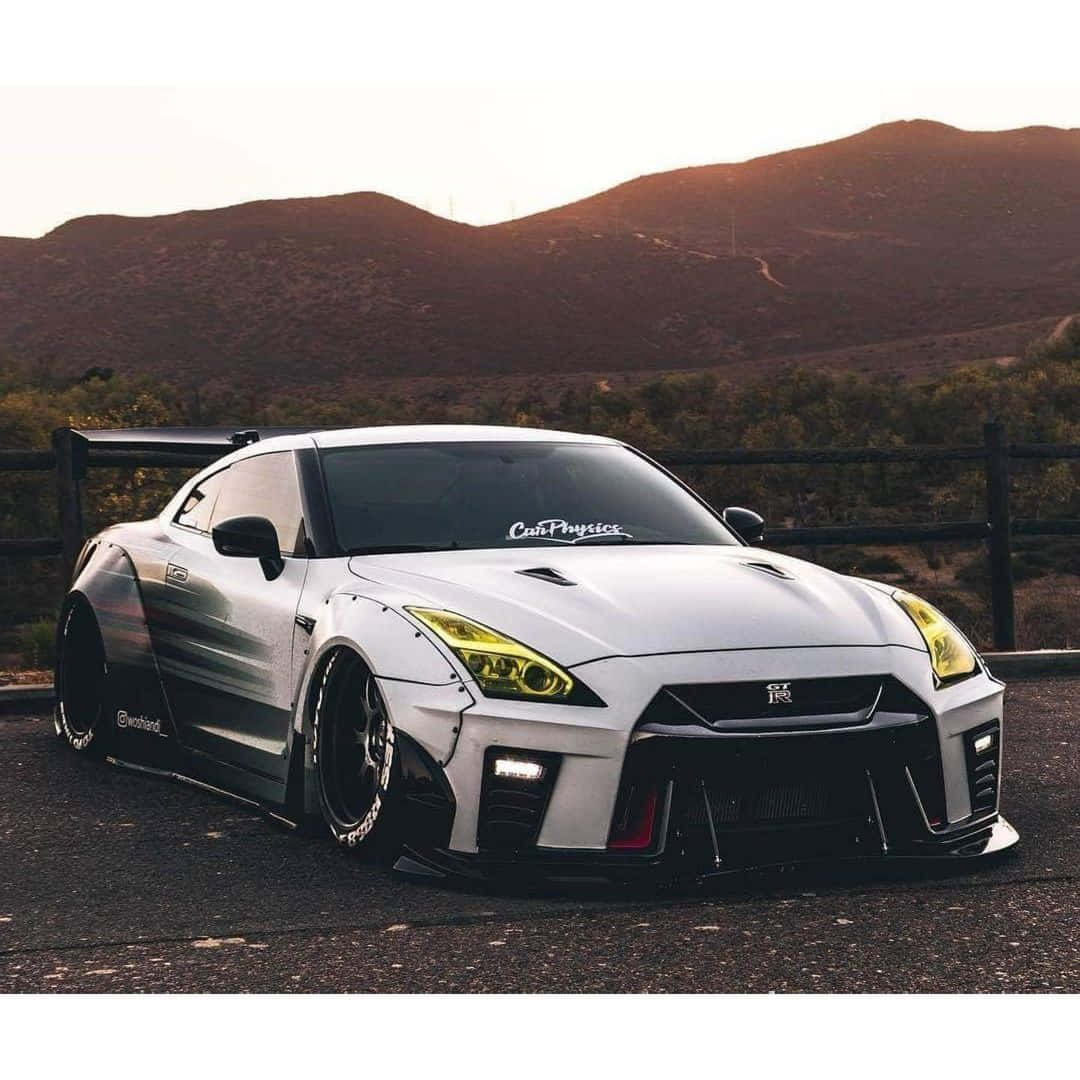
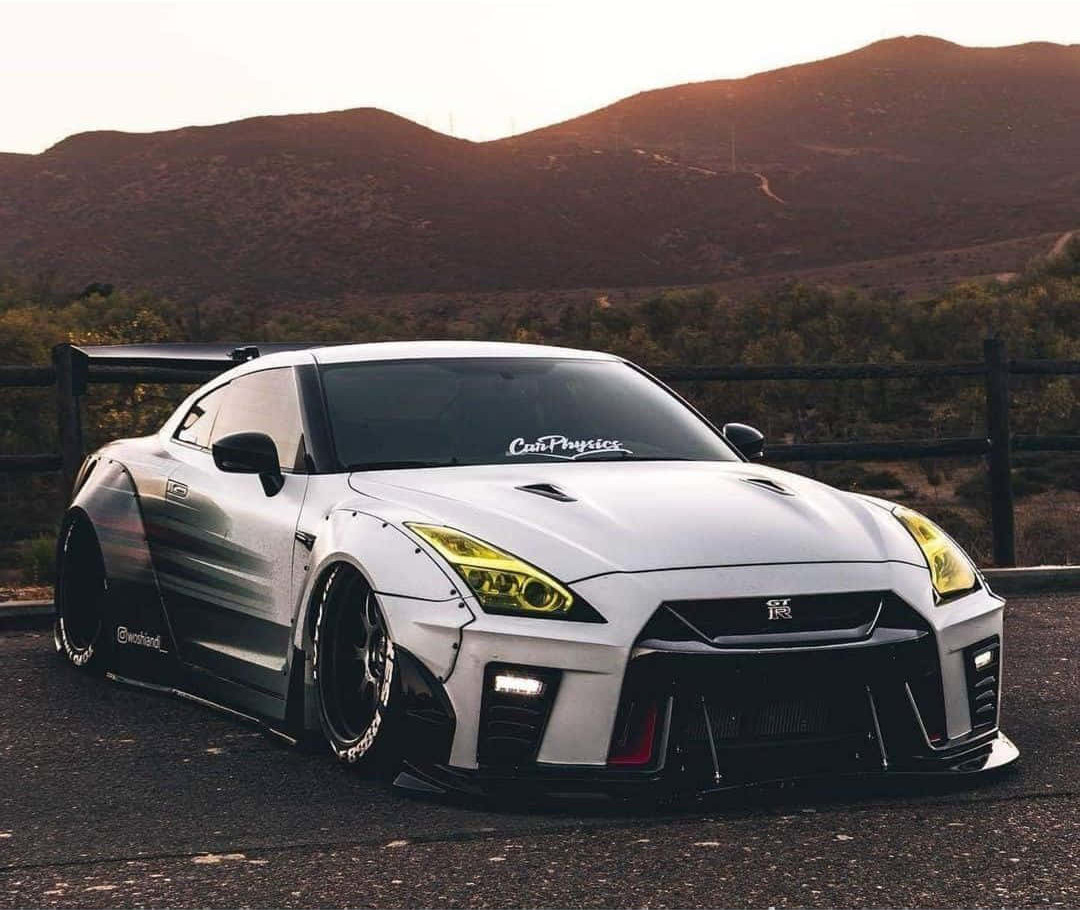
fixed some workdings, sizings

diff --git a/projects.html b/projects.html
@@ -22,10 +22,10 @@
 
             <article>
                 <h3>security-harness</h3>
-                <p>This is the project I am working on right now. It is a set of tools for bug bounty research on targets I am allowed to test, built as four smaller programs that all read from the same CVE database. The recon part refuses to run unless I hand it a scope first, and anything it finds comes back labelled unverified, so I still have to confirm a lead myself before it goes in a report.</p>
+                <p>This is the project I am working on right now. It is a set of tools for bug bounty research on targets I am allowed to test, built as four smaller programs that all read from the same CVE database. The recon part refuses to run unless I hand it a scope first, and anything it finds comes back labelled unverified, so I still have to confirm a lead myself before it goes in a report. This tool is very much still a work-in-progress, but I am excited to learn more and build on it.</p>
             </article>
 <section>
-            <h4>Inside security-harness</h4>
+            <h3>Inside security-harness</h3>
             <table>
                 <caption>The four tools that make security-harness, and the service they all read from</caption>
                 <thead>

diff --git a/about.html b/about.html
@@ -23,7 +23,7 @@
         <section>
             <h2>Outside of Class</h2>
             <p>In my free time, I enjoy making music, playing sports, and exploring new technologies. I am always looking for opportunities to learn and grow as a developer.</p>
-            <p>I also like to use AI to build all kinds of tools and also develop my own projects.</p>
+            <p>I love to learn and develop my own projects. Send me interesting books about AI to my inbox.</p>
             <p>An Example of a website I helped develop is : <a href="https://aptixx.com" rel="noopener noreferrer" target="_blank">Aptixx.com</a></p>
             <figure>
                 <img src="images/oilers.jpg" alt="Edmonton Oilers players raising their sticks to salute a crowd of fans" width="612" height="408">
@@ -33,7 +33,6 @@
         <section>
             <h2>Contact Information</h2>
             <p><strong>Email is the best way to reach me.</strong> I usually reply within a day.</p>
-            <p>Email: <a href="mailto:aman.909@hotmail.com">aman.909@hotmail.com</a></p>
 
         </section>
     </main>

diff --git a/index.html b/index.html
@@ -15,10 +15,10 @@
         </nav>
     </header>
     <main>
-        <p>Hi, I'm Aman Singh. I'm a student in COSC 219, and this is the personal site I'm building for the course.</p>
+        <p>Hi, I'm Aman Singh. I'm a student in Computer Information Systems, and this is a personal site I'm building.</p>
         <p>Here you can find information about me on the <a href="about.html">About</a> page and my work on the <a href="projects.html">Projects</a> page.</p>
         <figure>
-            <img src="images/r35.jpg" alt="Picture of one of my dream cars, the Nissan GT-R R35" width="600" height="600">
+            <img src="images/r35.jpg" alt="Picture of one of my dream cars, the Nissan GT-R R35" width="650" height="600">
             <figcaption>Picture of one of my dream cars, the Nissan GT-R R35</figcaption>
         </figure>
         <h2>My top 3 favorite cars:</h2>
